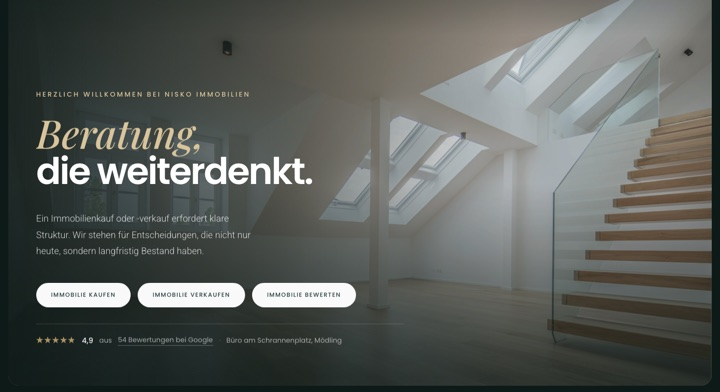
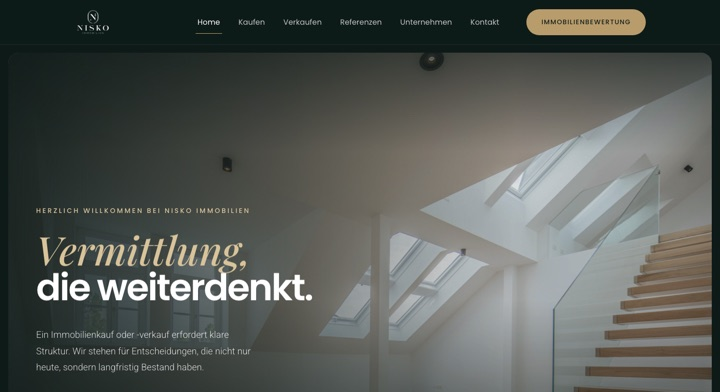
Partnervorschauen mit Kopfbereich, Zwischenspeicher umgangen
Nisko und Wieneroiter zeigen jetzt auch die Navigationsleiste mit Logo —
vorher war bei Wieneroiter nur ein Hochhaus zu sehen, ohne Hinweis auf
wen die Vorschau gehoert. Der Dateiname blieb bei Nisko gleich, deshalb
lieferte der Browser weiter die alte Aufnahme aus; ein ?v=2 im Verweis
erzwingt das Nachladen.

diff --git a/index.html b/index.html
@@ -510,7 +510,7 @@
               <h3>Wieneroiter Legal</h3>
               <p class="partner-role">Rechtsanwalt</p>
             </div>
-            <a href="https://www.wieneroiter.com/" target="_blank" rel="noopener" class="btn btn-outline btn-sm" data-peek-src="assets/img/partners/preview-wieneroiter.jpg" data-peek-label="Wieneroiter Legal">
+            <a href="https://www.wieneroiter.com/" target="_blank" rel="noopener" class="btn btn-outline btn-sm" data-peek-src="assets/img/partners/preview-wieneroiter.jpg?v=2" data-peek-label="Wieneroiter Legal">
               Website besuchen
               <svg viewBox="0 0 24 24" fill="none" stroke="currentColor" stroke-width="2"><path d="M5 12h14M13 6l6 6-6 6"/></svg>
             </a>
@@ -536,7 +536,7 @@
               <h3>Nisko Immobilien</h3>
               <p class="partner-role">Partnerbüro im Süden Wiens</p>
             </div>
-            <a href="https://www.nisko.at" target="_blank" rel="noopener" class="btn btn-outline btn-sm" data-peek-src="assets/img/partners/preview-nisko.jpg" data-peek-label="Nisko Immobilien">
+            <a href="https://www.nisko.at" target="_blank" rel="noopener" class="btn btn-outline btn-sm" data-peek-src="assets/img/partners/preview-nisko.jpg?v=2" data-peek-label="Nisko Immobilien">
               Website besuchen
               <svg viewBox="0 0 24 24" fill="none" stroke="currentColor" stroke-width="2"><path d="M5 12h14M13 6l6 6-6 6"/></svg>
             </a>
